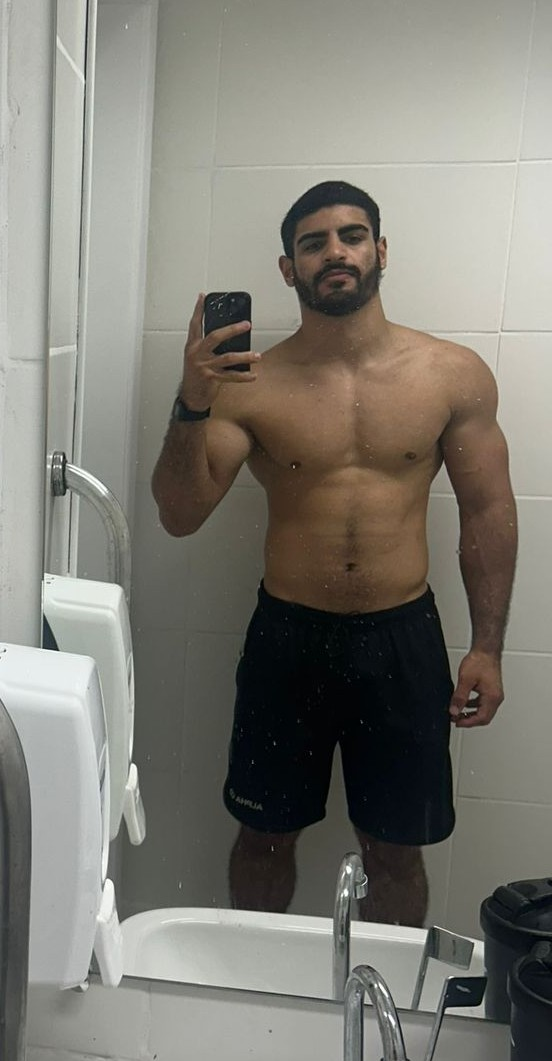
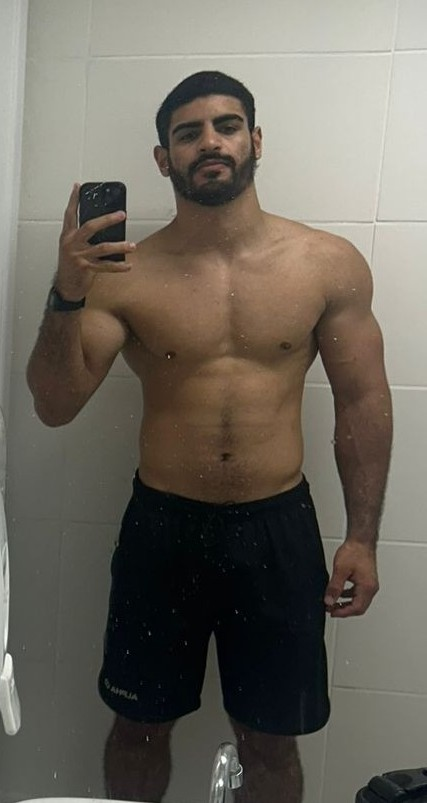
feat: atualização planos e fotos

diff --git a/src/components/site/BeforeAfter.tsx b/src/components/site/BeforeAfter.tsx
@@ -1,94 +1,64 @@
 /* eslint-disable prettier/prettier */
-import { motion } from "framer-motion";
-import { useCallback, useRef, useState } from "react";
-import { ArrowLeftRight } from "lucide-react";
+import { useState } from "react";
+import { motion, AnimatePresence } from "framer-motion";
+import { X } from "lucide-react";
 import antes1 from "@/assets/shape/antes-1.jpg";
 import depois1 from "@/assets/shape/depois-1.jpg";
 import antes2 from "@/assets/shape/antes-2.jpg";
 import depois2 from "@/assets/shape/depois-2.jpg";
 import antes3 from "@/assets/shape/antes-3.jpg";
 import depois3 from "@/assets/shape/depois-3.jpg";
+import antes4 from "@/assets/shape/antes-4.jpg";
+import depois4 from "@/assets/shape/depois-4.jpg";
 
 const pairs = [
   { antes: antes1, depois: depois1, name: "Aluno GC" },
   { antes: antes2, depois: depois2, name: "Aluno GC" },
   { antes: antes3, depois: depois3, name: "Aluno GC" },
+  { antes: antes4, depois: depois4, name: "Aluno GC" },
 ];
 
-function CompareSlider({ antes, depois, name }: { antes: string; depois: string; name: string }) {
-  const [pos, setPos] = useState(50);
-  const containerRef = useRef<HTMLDivElement>(null);
-  const dragging = useRef(false);
-
-  const updateFromClientX = useCallback((clientX: number) => {
-    const el = containerRef.current;
-    if (!el) return;
-    const rect = el.getBoundingClientRect();
-    const pct = ((clientX - rect.left) / rect.width) * 100;
-    setPos(Math.min(100, Math.max(0, pct)));
-  }, []);
-
-  const onPointerDown = (e: React.PointerEvent) => {
-    dragging.current = true;
-    (e.target as HTMLElement).setPointerCapture(e.pointerId);
-    updateFromClientX(e.clientX);
-  };
-  const onPointerMove = (e: React.PointerEvent) => {
-    if (!dragging.current) return;
-    updateFromClientX(e.clientX);
-  };
-  const onPointerUp = () => { dragging.current = false; };
-
+function CompareSlider({ antes, depois, name, onOpen }: { antes: string; depois: string; name: string; onOpen: (src: string, alt: string) => void }) {
   return (
-    <div
-      ref={containerRef}
-      onPointerDown={onPointerDown}
-      onPointerMove={onPointerMove}
-      onPointerUp={onPointerUp}
-      onPointerLeave={onPointerUp}
-      className="relative aspect-[3/4] w-full overflow-hidden rounded-3xl border border-border select-none cursor-ew-resize touch-none"
-    >
-      {/* Depois (base, ocupa tudo) */}
-      <img
-        src={depois}
-        alt={`${name} — depois`}
-        draggable={false}
-        className="absolute inset-0 h-full w-full object-cover"
-      />
-      <div className="absolute top-3 right-3 text-[11px] font-bold tracking-wide uppercase text-white bg-neon px-3 py-1.5 rounded-full">
-        Depois
-      </div>
-
-      {/* Antes (recortado pelo clip) */}
-      <div className="absolute inset-0 overflow-hidden" style={{ clipPath: `inset(0 ${100 - pos}% 0 0)` }}>
+    <div className="grid grid-cols-2 gap-1.5">
+      <button
+        type="button"
+        onClick={() => onOpen(antes, `${name} — antes`)}
+        className="relative aspect-[3/4] overflow-hidden rounded-2xl border border-border cursor-zoom-in"
+      >
         <img
           src={antes}
           alt={`${name} — antes`}
-          draggable={false}
           className="absolute inset-0 h-full w-full object-cover"
         />
         <div className="absolute top-3 left-3 text-[11px] font-bold tracking-wide uppercase text-white bg-black/70 backdrop-blur-sm px-3 py-1.5 rounded-full border border-white/15">
           Antes
         </div>
-      </div>
-
-      {/* Linha + handle */}
-      <div
-        className="absolute inset-y-0 w-[2px] bg-white/90 pointer-events-none"
-        style={{ left: `${pos}%` }}
+      </button>
+      <button
+        type="button"
+        onClick={() => onOpen(depois, `${name} — depois`)}
+        className="relative aspect-[3/4] overflow-hidden rounded-2xl border border-border cursor-zoom-in"
       >
-        <div className="absolute top-1/2 left-1/2 -translate-x-1/2 -translate-y-1/2 h-9 w-9 rounded-full bg-white flex items-center justify-center shadow-lg">
-          <ArrowLeftRight className="h-4 w-4 text-black" />
+        <img
+          src={depois}
+          alt={`${name} — depois`}
+          className="absolute inset-0 h-full w-full object-cover"
+        />
+        <div className="absolute top-3 right-3 text-[11px] font-bold tracking-wide uppercase text-white bg-neon px-3 py-1.5 rounded-full">
+          Depois
         </div>
-      </div>
+      </button>
     </div>
   );
 }
 
 export function BeforeAfter() {
+  const [lightbox, setLightbox] = useState<{ src: string; alt: string } | null>(null);
+
   return (
     <section id="antes-depois" className="relative py-12 px-6">
-      <div className="mx-auto max-w-5xl">
+      <div className="mx-auto max-w-6xl">
         <div className="max-w-xl mb-8">
           <p style={{
             display: "inline-block",
@@ -100,11 +70,11 @@ export function BeforeAfter() {
           }}>Transformações reais</p>
           <h2 className="font-display text-4xl md:text-6xl font-bold leading-tight">
             Antes e depois.<br />
-            <span className="text-muted-foreground">Arraste e veja a diferença.</span>
+            <span className="text-muted-foreground">Resultados reais de alunos.</span>
           </h2>
         </div>
 
-        <div className="grid md:grid-cols-3 gap-5">
+        <div className="grid sm:grid-cols-2 gap-6">
           {pairs.map((p, i) => (
             <motion.div
               key={i}
@@ -113,11 +83,42 @@ export function BeforeAfter() {
               viewport={{ once: true }}
               transition={{ duration: 0.6, delay: i * 0.1 }}
             >
-              <CompareSlider antes={p.antes} depois={p.depois} name={p.name} />
+              <CompareSlider antes={p.antes} depois={p.depois} name={p.name} onOpen={(src, alt) => setLightbox({ src, alt })} />
             </motion.div>
           ))}
         </div>
       </div>
+
+      <AnimatePresence>
+        {lightbox && (
+          <motion.div
+            initial={{ opacity: 0 }}
+            animate={{ opacity: 1 }}
+            exit={{ opacity: 0 }}
+            onClick={() => setLightbox(null)}
+            className="fixed inset-0 z-[100] flex items-center justify-center bg-black/90 backdrop-blur-sm p-6 cursor-zoom-out"
+          >
+            <button
+              type="button"
+              onClick={() => setLightbox(null)}
+              className="absolute top-5 right-5 h-10 w-10 rounded-full bg-white/10 hover:bg-white/20 flex items-center justify-center text-white transition-colors"
+              aria-label="Fechar"
+            >
+              <X className="h-5 w-5" />
+            </button>
+            <motion.img
+              initial={{ scale: 0.92, opacity: 0 }}
+              animate={{ scale: 1, opacity: 1 }}
+              exit={{ scale: 0.92, opacity: 0 }}
+              transition={{ duration: 0.2 }}
+              src={lightbox.src}
+              alt={lightbox.alt}
+              onClick={(e) => e.stopPropagation()}
+              className="max-h-[90vh] max-w-[90vw] rounded-2xl object-contain cursor-default"
+            />
+          </motion.div>
+        )}
+      </AnimatePresence>
     </section>
   );
 }

diff --git a/src/components/site/MicroProducts.tsx b/src/components/site/MicroProducts.tsx
@@ -1,8 +1,11 @@
 /* eslint-disable prettier/prettier */
-import { motion } from "framer-motion";
+import { useState } from "react";
+import { motion, AnimatePresence } from "framer-motion";
 import { Home, Dumbbell, Flame } from "lucide-react";
 
-const products = [
+type Gender = "masculino" | "feminino";
+
+const productTemplates = [
   {
     icon: Home,
     name: "Planilha de Treino — Casa",
@@ -23,6 +26,16 @@ const products = [
   },
 ];
 
+const genders: { key: Gender; label: string }[] = [
+  { key: "masculino", label: "Masculino" },
+  { key: "feminino", label: "Feminino" },
+];
+
+const productsByGender: Record<Gender, typeof productTemplates> = {
+  masculino: productTemplates.map((p) => ({ ...p, name: `${p.name} — Masculino` })),
+  feminino: productTemplates.map((p) => ({ ...p, name: `${p.name} — Feminino` })),
+};
+
 const WHATSAPP = "5511959222489";
 
 function buildProductMessage(name: string, price: string): string {
@@ -32,6 +45,9 @@ function buildProductMessage(name: string, price: string): string {
 }
 
 export function MicroProducts() {
+  const [gender, setGender] = useState<Gender>("masculino");
+  const products = productsByGender[gender];
+
   return (
     <section id="produtos" className="relative py-28 px-6 overflow-hidden">
       <div className="absolute inset-0 -z-10 bg-[radial-gradient(ellipse_at_top_right,rgba(225,6,0,0.05),transparent_55%)]" />
@@ -53,18 +69,61 @@ export function MicroProducts() {
             borderBottom: "1.5px solid rgba(225,6,0,0.35)",
             paddingBottom: 4,
           }}>
-            Produtos digitais
+            Planilhas de treino
           </p>
           <h2 className="font-display text-4xl md:text-6xl font-bold leading-tight">
             Sem mensalidade.<br />Resultado direto.
           </h2>
           <p className="text-muted-foreground mt-4 max-w-xl mx-auto text-base leading-relaxed">
-            Compra única. Sem assinatura. Perfeito para quem quer começar com investimento mínimo.
+            Compra única. Sem assinatura. Planilhas prontas, masculino e feminino, para começar com investimento mínimo.
           </p>
         </motion.div>
 
+        {/* Gender tabs */}
+        <div style={{ display: "flex", justifyContent: "center", marginBottom: 40 }}>
+          <div style={{
+            display: "inline-flex",
+            background: "rgba(255,255,255,0.03)",
+            border: "1px solid rgba(255,255,255,0.08)",
+            borderRadius: 999,
+            padding: 4,
+            gap: 4,
+          }}>
+            {genders.map((g) => (
+              <button
+                key={g.key}
+                type="button"
+                onClick={() => setGender(g.key)}
+                style={{
+                  padding: "9px 28px",
+                  borderRadius: 999,
+                  border: "none",
+                  cursor: "pointer",
+                  fontSize: 13,
+                  fontWeight: 700,
+                  letterSpacing: "0.02em",
+                  background: gender === g.key ? "#E10600" : "transparent",
+                  color: gender === g.key ? "#fff" : "rgba(255,255,255,0.55)",
+                  boxShadow: gender === g.key ? "0 0 16px rgba(225,6,0,0.35)" : "none",
+                  transition: "all 0.2s",
+                }}
+              >
+                {g.label}
+              </button>
+            ))}
+          </div>
+        </div>
+
         {/* Individual products */}
-        <div className="grid sm:grid-cols-2 lg:grid-cols-3 gap-5">
+        <AnimatePresence mode="wait">
+        <motion.div
+          key={gender}
+          initial={{ opacity: 0, y: 12 }}
+          animate={{ opacity: 1, y: 0 }}
+          exit={{ opacity: 0, y: -12 }}
+          transition={{ duration: 0.3 }}
+          className="grid sm:grid-cols-2 lg:grid-cols-3 gap-5"
+        >
           {products.map((p, i) => {
             const Icon = p.icon;
             return (
@@ -122,7 +181,8 @@ export function MicroProducts() {
               </motion.div>
             );
           })}
-        </div>
+        </motion.div>
+        </AnimatePresence>
 
         <p className="text-center text-xs text-muted-foreground mt-8">
           Todos os produtos são entregues digitalmente via WhatsApp após confirmação do pagamento.

diff --git a/src/components/site/Plans.tsx b/src/components/site/Plans.tsx
@@ -19,10 +19,9 @@ const plans = [
     items: [
       { label: "Acesso à plataforma", ok: true },
       { label: "Treino personalizado (casa ou academia)", ok: true },
-      { label: "Suporte via plataforma (respostas em 72h)", ok: true },
-      { label: "Acompanhamento semanal", ok: false },
+      { label: "Suporte via plataforma (respostas em 24h)", ok: true },
+      { label: "Acompanhamento mensal", ok: true },
       { label: "Fotos e registro de progresso", ok: false },
-      { label: "Videochamada mensal", ok: false },
     ],
   },
   {
@@ -36,9 +35,8 @@ const plans = [
       { label: "Acesso à plataforma", ok: true },
       { label: "Treino personalizado com periodização", ok: true },
       { label: "Suporte prioritário (respostas em 24h)", ok: true },
-      { label: "Acompanhamento semanal", ok: true },
+      { label: "Acompanhamento quinzenal", ok: true },
       { label: "Fotos e registro de progresso", ok: true },
-      { label: "Videochamada mensal", ok: false },
     ],
   },
   {
@@ -51,10 +49,9 @@ const plans = [
     items: [
       { label: "Acesso à plataforma", ok: true },
       { label: "Treino personalizado com periodização", ok: true },
-      { label: "Suporte VIP (respostas em 12h)", ok: true },
-      { label: "Acompanhamento quinzenal (check-in)", ok: true },
+      { label: "Suporte VIP (respostas em 24h)", ok: true },
+      { label: "Acompanhamento semanal (check-in)", ok: true },
       { label: "Relatório mensal de progresso", ok: true },
-      { label: "Videochamada mensal (30 min)", ok: true },
     ],
   },
 ];
@@ -63,11 +60,9 @@ const tableRows = [
   { label: "Preço/mês", starter: "R$ 39,90", plus: "R$ 89,90", premium: "R$ 179,90", type: "text" as const },
   { label: "Acesso à plataforma", starter: true, plus: true, premium: true, type: "bool" as const },
   { label: "Treino personalizado", starter: true, plus: true, premium: true, type: "bool" as const },
-  { label: "Acompanhamento semanal", starter: false, plus: true, premium: true, type: "bool" as const },
+  { label: "Acompanhamento", starter: "Mensal", plus: "Quinzenal", premium: "Semanal", type: "text" as const },
   { label: "Fotos e progresso", starter: false, plus: true, premium: true, type: "bool" as const },
-  { label: "Videochamada mensal", starter: false, plus: false, premium: "30 min", type: "mixed" as const },
-  { label: "Prioridade no atendimento", starter: "72h", plus: "24h", premium: "12h", type: "text" as const },
-  { label: "Presencial (Cotia/SP)", starter: false, plus: "+ valor", premium: "+ valor", type: "mixed" as const },
+  { label: "Prioridade no atendimento", starter: "24h", plus: "24h", premium: "24h", type: "text" as const },
 ];
 
 export function Plans() {

diff --git a/src/components/site/About.tsx b/src/components/site/About.tsx
@@ -1,7 +1,7 @@
 /* eslint-disable prettier/prettier */
 import { motion } from "framer-motion";
 import { CheckCircle2, Target } from "lucide-react";
-import profileImg from "@/assets/shape/depois-3.jpg";
+import profileImg from "@/assets/shape/foto-capa.jpeg";
 
 const credentials = [
   "Bacharelado em Educação Física — UNESP, Rio Claro",
@@ -16,7 +16,7 @@ const specialities = [
 
 const stats = [
   { value: "200+", label: "alunos" },
-  { value: "8 anos", label: "experiência" },
+  { value: "4 anos", label: "experiência" },
   { value: "94%", label: "retenção" },
 ];
 
@@ -359,7 +359,7 @@ export function About() {
                 src={profileImg}
                 alt="Guilherme Couto, personal trainer"
                 className="ab-photo-img"
-                style={{ transform: "scale(2.6)", transformOrigin: "66% 32%" }}
+                style={{ objectPosition: "50% 15%" }}
               />
               <div className="ab-photo-fade" />
               <div className="ab-photo-badge">

diff --git a/src/components/site/Hero.tsx b/src/components/site/Hero.tsx
@@ -1,7 +1,7 @@
 /* eslint-disable prettier/prettier */
 import { motion } from "framer-motion";
 import { ArrowRight, Play } from "lucide-react";
-import heroImg from "@/assets/shape/depois-3.jpg";
+import heroImg from "@/assets/shape/foto-capa.jpeg";
 
 const stats = [
   { v: "850+", l: "Alunos transformados" },
@@ -107,7 +107,7 @@ export function Hero() {
               src={heroImg}
               alt="Guilherme Couto, personal trainer"
               className="absolute inset-0 h-full w-full object-cover"
-              style={{ transform: "scale(1.9)", transformOrigin: "68% 47%" }}
+              style={{ objectPosition: "50% 20%" }}
               width={1200}
               height={1600}
             />
